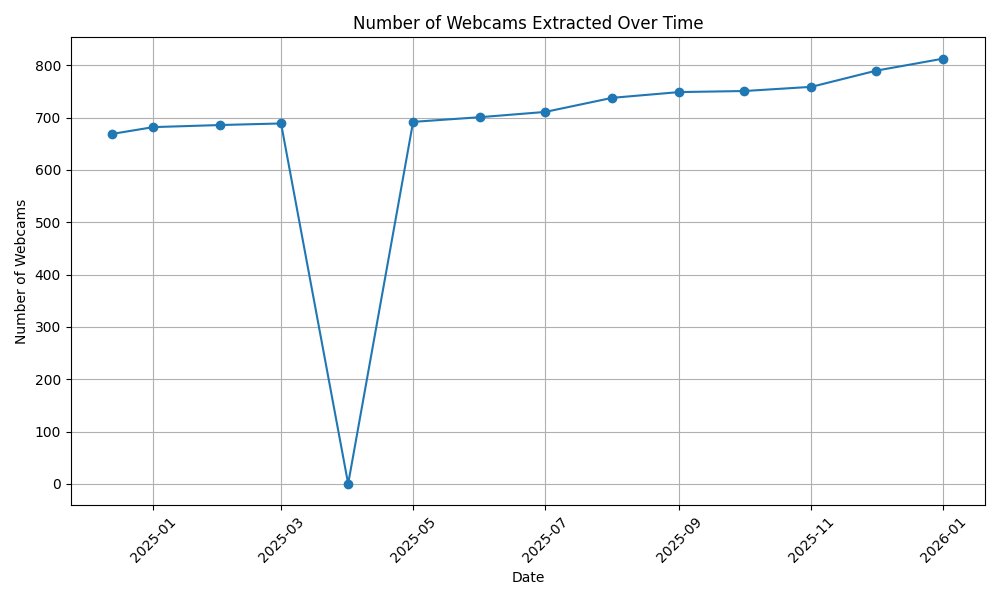
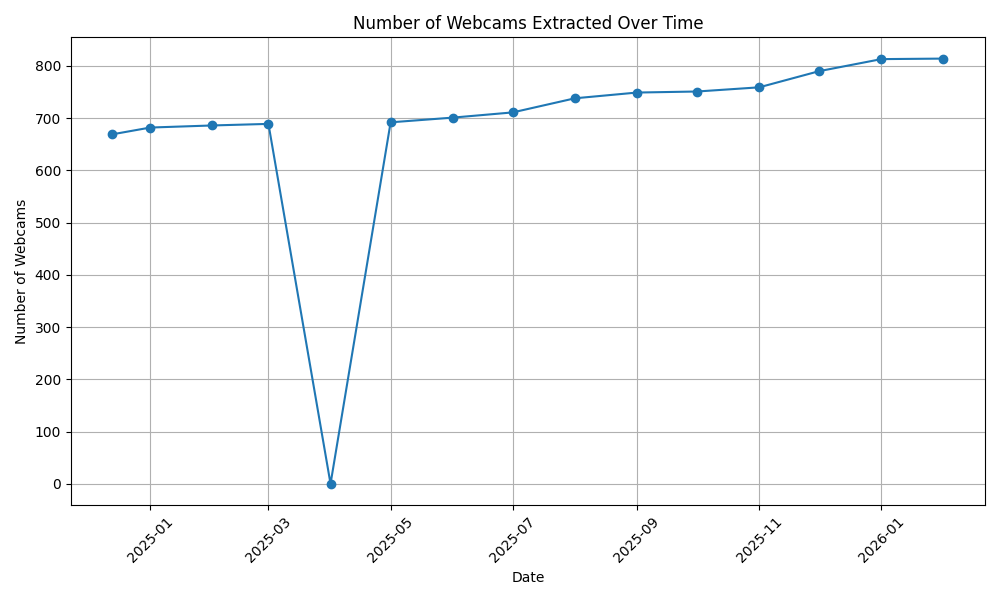
Skaping 2026-02-01

diff --git a/Skaping/README.md b/Skaping/README.md
@@ -1,10 +1,10 @@
 # Skaping 🎥
 
-**Data last updated on: '2026-01-01''2025-12-01''2025-11-01''2025-10-01''2025-09-01''2025-08-01''2025-07-01''2025-06-01'**
+**Data last updated on: '2026-02-01''2026-01-01''2025-12-01''2025-11-01''2025-10-01''2025-09-01''2025-08-01''2025-07-01''2025-06-01'**
 
 Data extracted from: [Skaping](https://www.skaping.com)
 
-![History Diagram](webcam_count_history.png?img_date='2026-01-01''2025-12-01''2025-11-01''2025-10-01''2025-09-01''2025-08-01''2025-07-01''2025-06-01')
+![History Diagram](webcam_count_history.png?img_date='2026-02-01''2026-01-01''2025-12-01''2025-11-01''2025-10-01''2025-09-01''2025-08-01''2025-07-01''2025-06-01')
 
 ## 📅 Use the Latest Data Scraped Each Month
 
